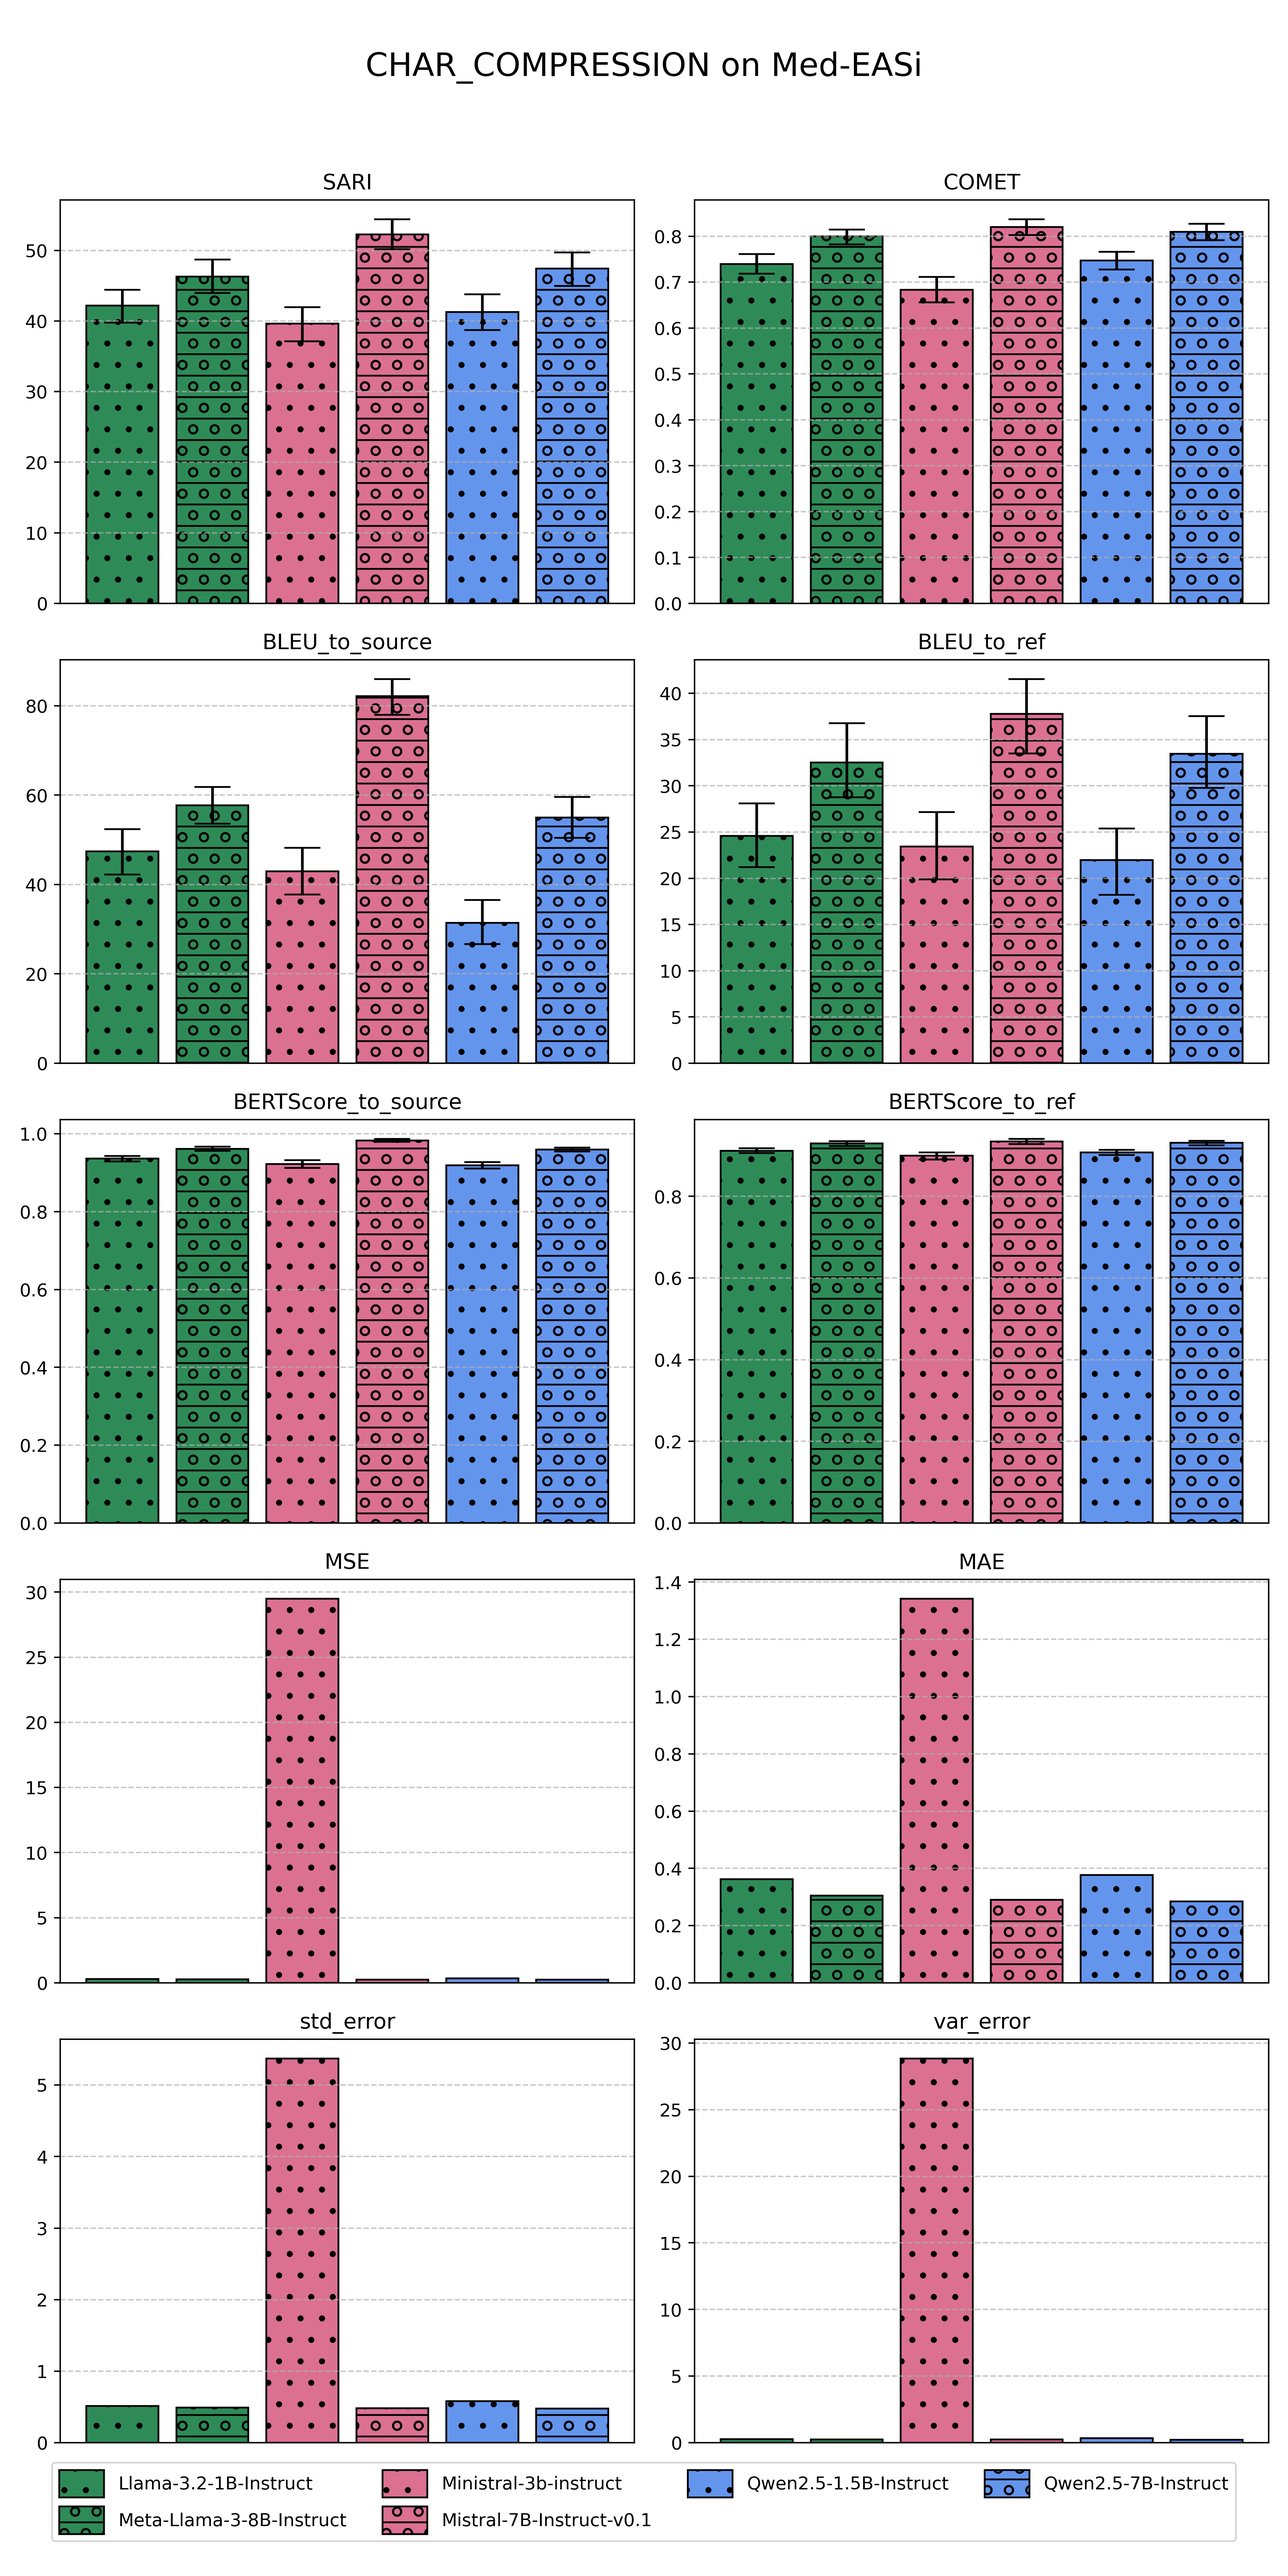
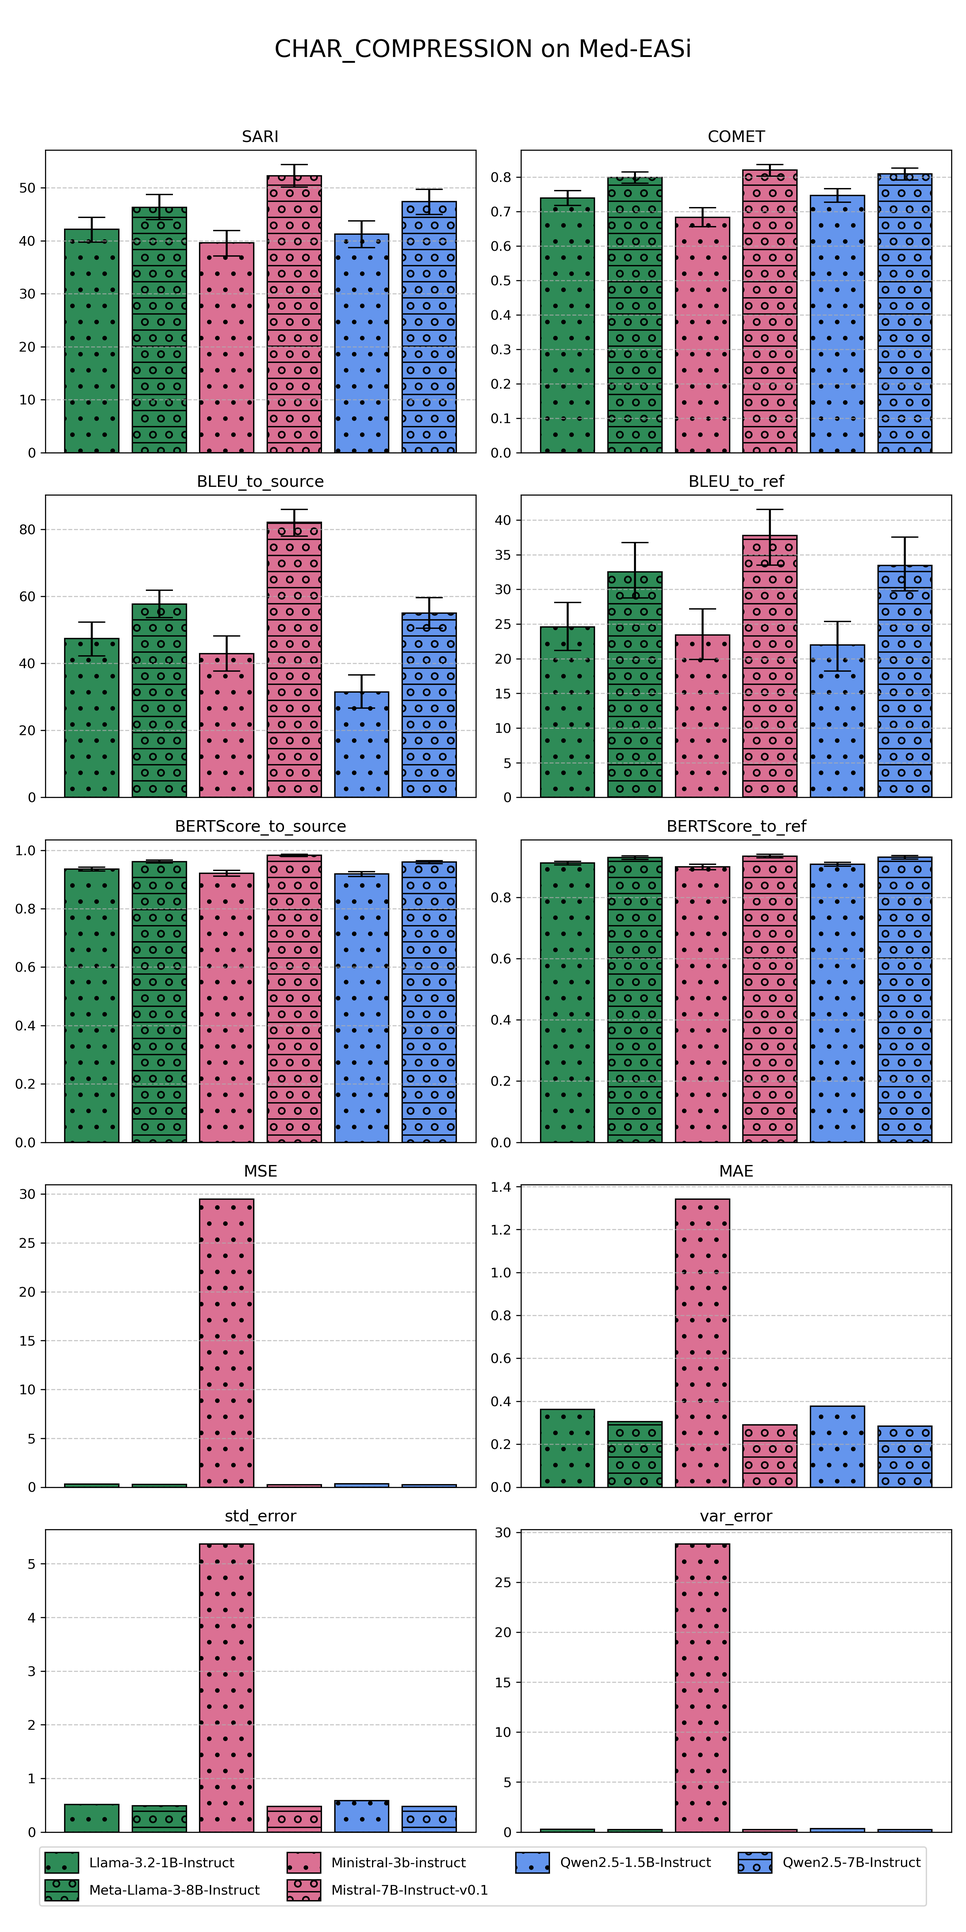
bulk update

diff --git a/src/sft_eval_compare.py b/src/sft_eval_compare.py
@@ -184,7 +184,7 @@ def plot_comparison_metrics(results, dataset, control_attr, save_dir, output_pre
 
     plt.tight_layout(rect=[0, 0.04, 1, 0.96])
     plot_path = os.path.join(save_dir, f"{output_prefix}_metrics_losses.png")
-    plt.savefig(plot_path, dpi=400)
+    plt.savefig(plot_path, dpi=300)
     plt.close()
     print(f"Saved plot to {plot_path}")
 
